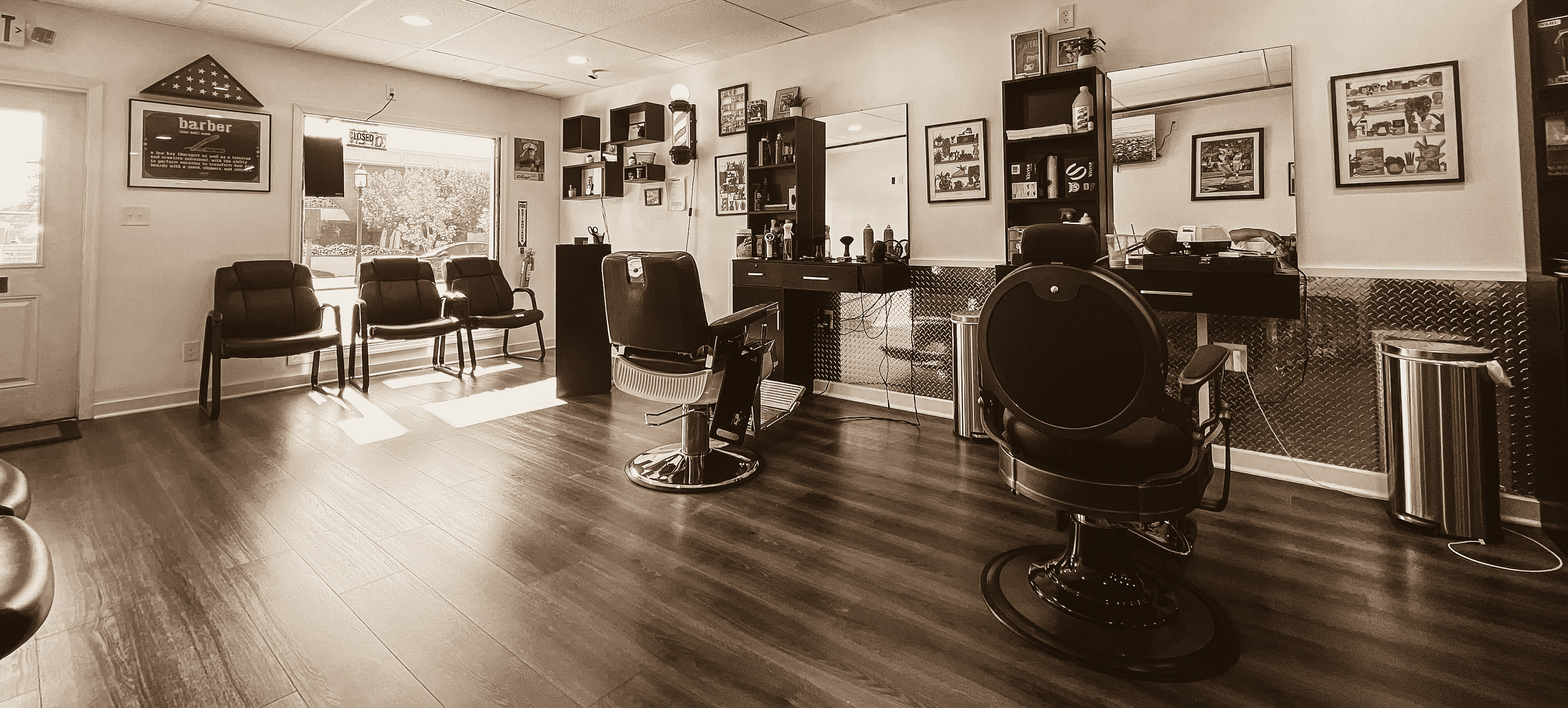
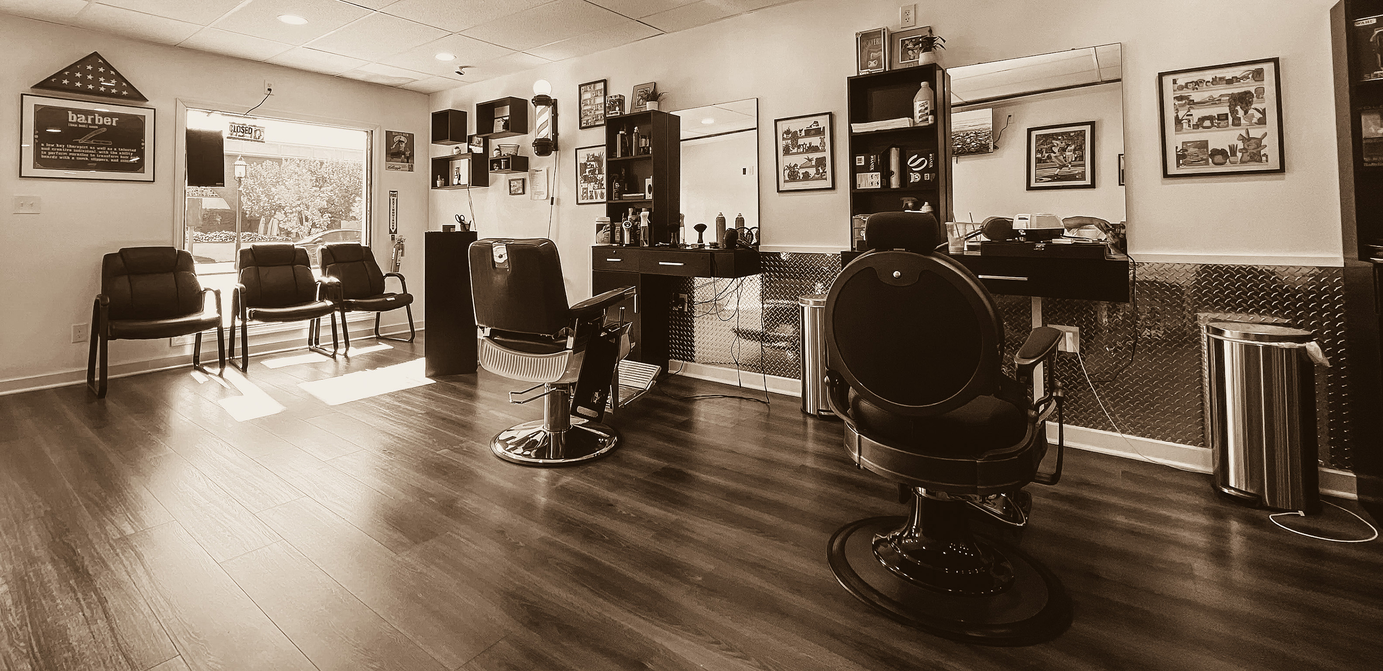
modified formatting

diff --git a/Websites/JCBARBER/assets/css/styles.css b/Websites/JCBARBER/assets/css/styles.css
@@ -663,6 +663,10 @@ header
   .header-area .logo {
     margin-left: 30px;
   }
+  .header-area .logo img {
+    width: auto;
+    height: auto;
+  }
   .header-area .menu-trigger {
     display: block !important;
   }
@@ -868,7 +872,7 @@ Banner Styling
 */
 
 .main-banner {
-  background-image: url(../images/gsb-banner_edited5.jpg);
+  background-image: url(../images/gsb-banner_edited3.jpg);
   background-repeat: no-repeat;
   background-position: top;
   background-size: cover;
@@ -884,21 +888,22 @@ Banner Styling
 
 .main-banner-button a {
   display: inline-block;
-  background-color: #fff;
-  font-size: 15px;
-  font-weight: 400;
-  color: #000;
+  background-color: #000;
+  font-size: 25px;
+  font-weight: 800;
+  color: #fff;
+  font-family: 'Josefin Sans';
   text-transform: capitalize;
   margin-top: 120px;
   padding: 12px 25px;
   width: 25vw;
-  border-radius: 0px;
-  border: 2px solid black;
+  border-radius: 10px;
+  border: 20px solid #fff;
   letter-spacing: 0.25px;
 }
 
 .main-banner-button a:hover {
-  background-color: #afafaf !important;
+  background-color: #2a2a2a !important;
 }
 
 .main-content {
@@ -945,6 +950,12 @@ Banner Styling
 }
 
 .main-content .bottom-content {
+  text-align: center;
+  display: block;
+  margin: auto;
+}
+
+.main-content .bottom-content img {
   display: block;
   margin: auto;
   width: 600px;
@@ -1827,19 +1838,40 @@ Responsive
 /* MOBILE */
 
 @media (max-width: 767px) {
-  .main-content {
-    padding-top: 100px;
-    display: flex;
-    flex-direction: column;
-  }
-  #top-content {
+    /* #top-content {
     order: 2 !important;
     margin-bottom: -100px;
   }
   #bottom-content {
     order: 1 !important;
     padding-top: 100px;
-  }  
+  } */
+  .main-banner-button a {
+    width: 90%;
+  }
+  .main-content {
+    display: flex;
+    flex-direction: column;
+    padding: 0px;
+    margin: auto;
+  }
+  .main-content .top-content {
+    display: block;
+    margin: auto;
+    padding-top: 0px;
+    height: 50vh;
+  }
+  .main-content .bottom-content {
+    display: block;
+    margin: auto;
+    padding-top: 0px;
+    height: 50vh;
+  }
+  .main-content .bottom-content img {
+    width: 100%;
+    height: 100%;
+    display: block;
+  }
   .header-area {
     height: 100px;
   }

diff --git a/Websites/JCBARBER/assets/css/owl.css b/Websites/JCBARBER/assets/css/owl.css
@@ -97,9 +97,7 @@
 .no-js .owl-carousel {
   display: block; }
 
-/*
- *  Owl Carousel - Animate Plugin
- */
+/* Owl Carousel - Animate Plugin */
 .owl-carousel .animated {
   animation-duration: 1000ms;
   animation-fill-mode: both; }
@@ -119,15 +117,11 @@
   100% {
     opacity: 0; } }
 
-/*
- * 	Owl Carousel - Auto Height Plugin
- */
+/* Owl Carousel - Auto Height Plugin */
 .owl-height {
   transition: height 500ms ease-in-out; }
 
-/*
- * 	Owl Carousel - Lazy Load Plugin
- */
+/*	Owl Carousel - Lazy Load Plugin */
 .owl-carousel .owl-item {
   /**
 			This is introduced due to a bug in IE11 where lazy loading combined with autoheight plugin causes a wrong
@@ -141,9 +135,7 @@
   .owl-carousel .owl-item img.owl-lazy {
     transform-style: preserve-3d; }
 
-/*
- * 	Owl Carousel - Video Plugin
- */
+/* Owl Carousel - Video Plugin */
 .owl-carousel .owl-video-wrapper {
   position: relative;
   height: 100%;

diff --git a/Websites/JCBARBER/index.html b/Websites/JCBARBER/index.html
@@ -86,7 +86,7 @@
         </div>
       </div>
       <div class="row main-content">
-        <div class="col-lg-12" id="bottom-content">
+        <div class="col-lg-12">
           <div class="bottom-content wow fadeInRight" data-wow-duration="1s" data-wow-delay="0.5s">
             <img src="assets/images/GardenStateBarb-logo_crm.jpeg" alt="GSB Logo">
           </div>
